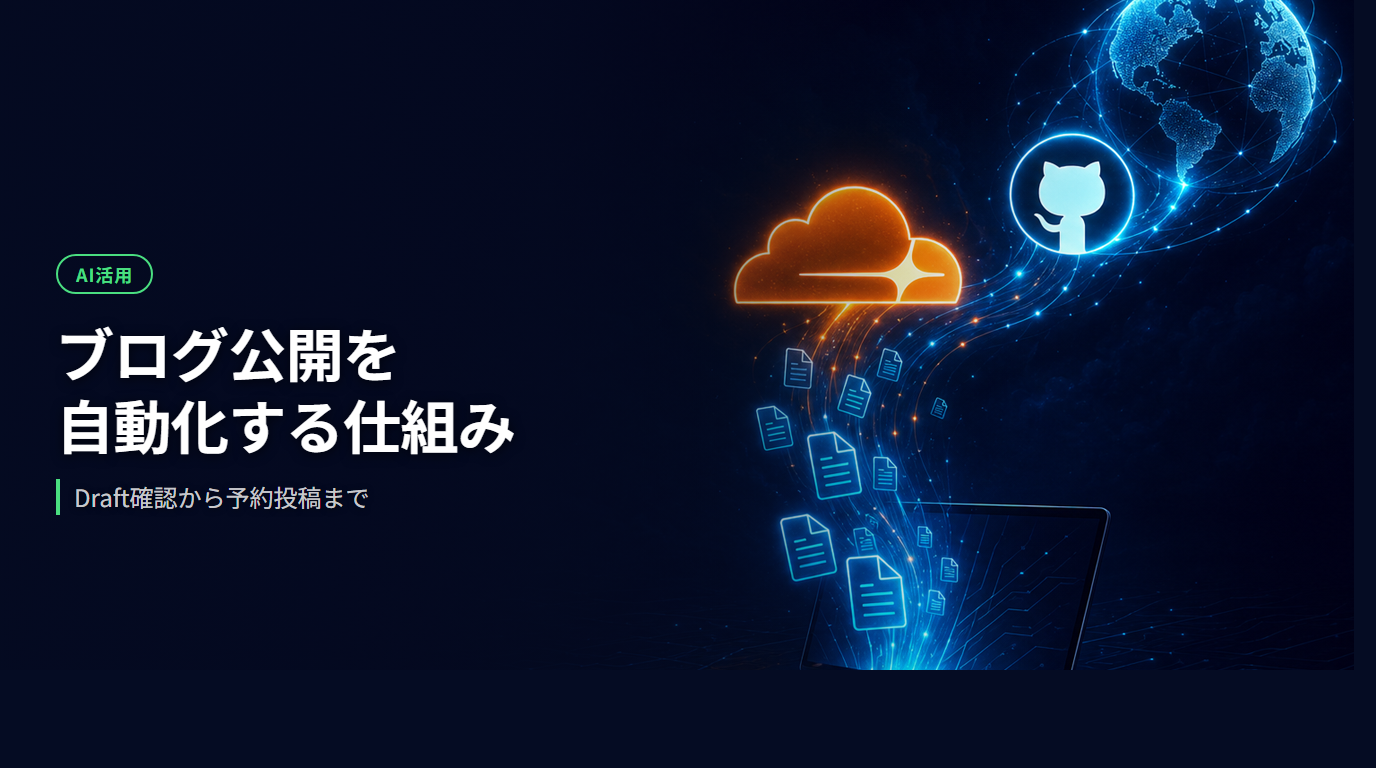
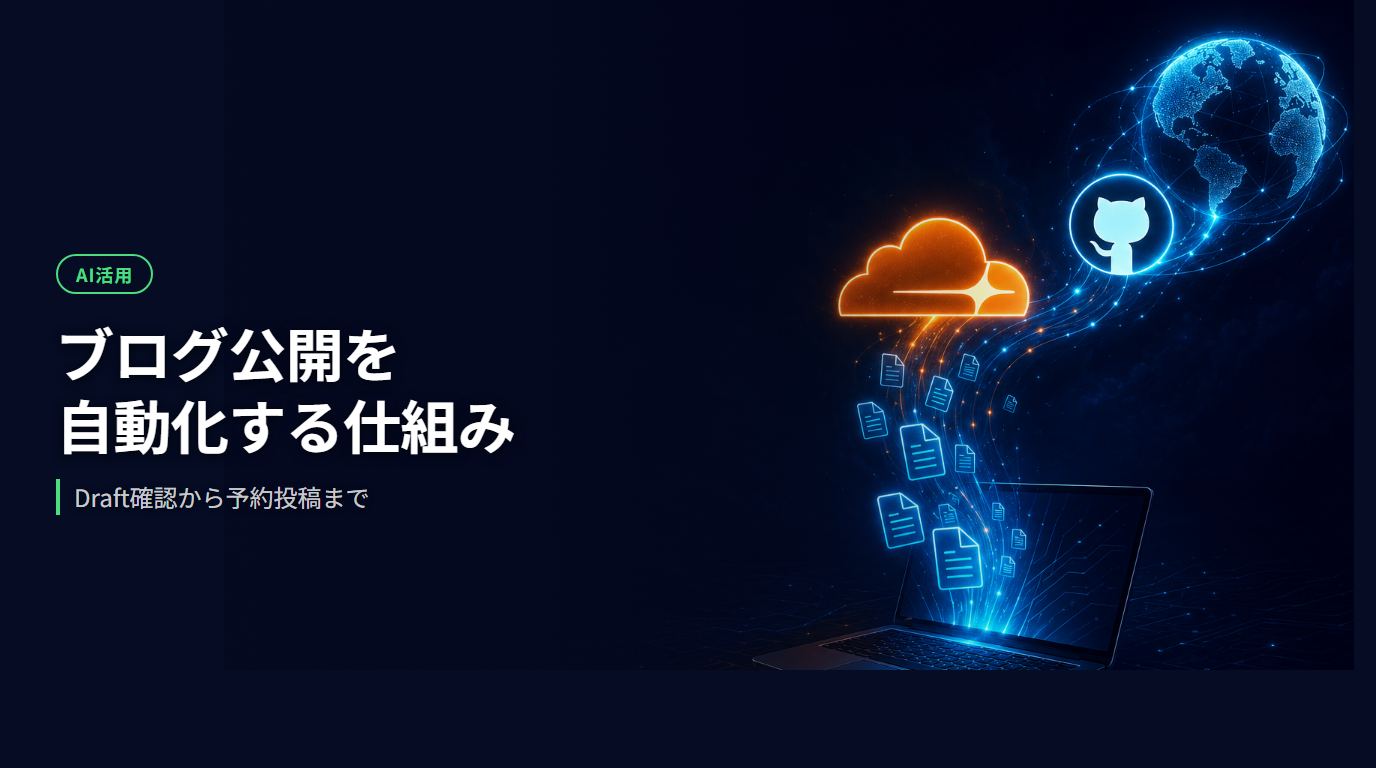
fix: use original 1536x1024 base image with right-aligned background
Cropping to 1376x768 was cutting the bottom of the illustration.
Now using original aspect ratio with background-size:auto 100% and
background-position:right center so the full illustration is visible.

Changed region(s): [[0.5312, 0.0, 1.0, 0.875]]

diff --git a/tmp-diagram/thumb-cloudflare-blog-publish-flow.html b/tmp-diagram/thumb-cloudflare-blog-publish-flow.html
@@ -18,8 +18,9 @@
     position: absolute;
     inset: 0;
     background-image: url('file:///C:/Users/oui_k/OneDrive/finlab-se/static/images/thumb-cloudflare-blog-publish-flow-base.png');
-    background-size: cover;
-    background-position: center;
+    background-size: auto 100%;
+    background-position: right center;
+    background-repeat: no-repeat;
   }
 
   /* 左側グラデーションオーバーレイ（テキスト可読性確保） */
